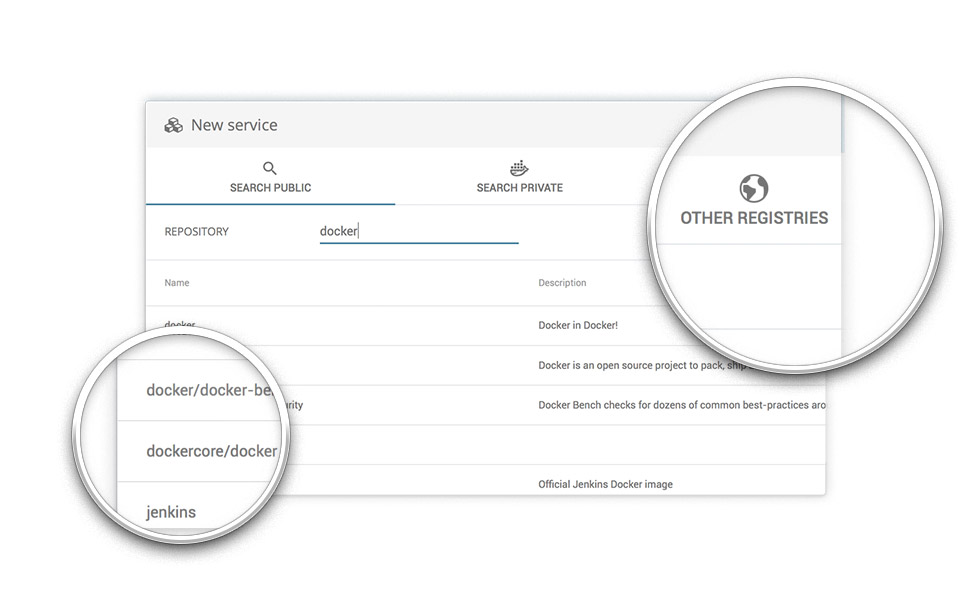
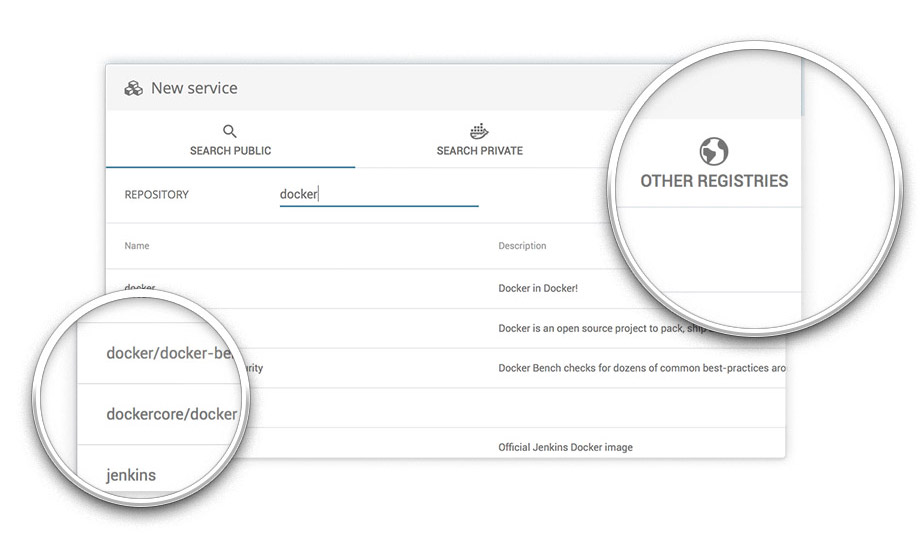
úprava velikosti screenshotu a loga

diff --git a/css/swarmpit.min.css b/css/swarmpit.min.css
@@ -2,4 +2,4 @@
  * Start Bootstrap - Swarmpit v0.1 ()
  * Copyright 2013-2017 Bootstrap
  * Licensed under MIT ()
- */.heading-font{font-family:Lato,Helvetica,Arial,sans-serif;font-size:24px;font-weight:300;letter-spacing:0}.body-font{font-family:Lato,Helvetica,Arial,sans-serif}.alt-font{font-family:Lato,Helvetica,Arial,sans-serif;text-transform:uppercase;letter-spacing:2px}.content-section-a{padding:50px 0;background-color:#fff;border-top:1px solid #e7e7e7}.content-section-b{padding:50px 0;border-top:1px solid #e7e7e7}.install{display:inline;padding:12px;background-color:#5e469c;color:#fff;font-size:1em;font-family:monaco;border-radius:3px}.code{color:#76ab0b}.subscribe{background-color:#002347;color:#fff}.email-wrapper .form-control{display:inline;height:48px;margin-right:10px;width:60%}.title{font-size:50px}.blink{animation:blink-animation 1s steps(5,start) infinite;-webkit-animation:blink-animation 1s steps(5,start) infinite}@keyframes blink-animation{to{visibility:hidden}}@-webkit-keyframes blink-animation{to{visibility:hidden}}#nopadding{padding:0 0}section.nopadding .section-heading{margin-bottom:100px}section.nopadding .section-heading h2{margin-top:0}section.nopadding .section-heading p{margin-bottom:0}section.nopadding .device-container,section.nopadding .feature-item{max-width:300px;margin:0 auto}section.nopadding .device-container{margin-bottom:100px}@media (min-width:992px){section.nopadding .device-container{margin-bottom:0}}section.nopadding .feature-item{text-align:center;margin-top:50px}section.nopadding .feature-item h3{font-size:30px}section.nopadding .feature-item i{font-size:80px;background:-webkit-linear-gradient(to left,#5e469c,#0074d9);background:linear-gradient(to left,#5e469c,#0074d9);-webkit-background-clip:text;-webkit-text-fill-color:transparent}@media (min-width:992px){section.nopadding .device-container,section.nopadding .feature-item{max-width:none}}.padd{margin:30px 0;padding-bottom:10px;background:#fff;box-shadow:0 2px 3px rgba(0,0,0,.07);color:#333;padding-left:10px;padding-right:10px}.team .avatar{position:relative;z-index:2;margin-top:-60px;border-radius:50%}.titleteam{padding-bottom:30px}body,html{height:100%;width:100%}body{font-family:Lato,Helvetica,Arial,sans-serif}a{-webkit-transition:all .35s;-moz-transition:all .35s;transition:all .35s;color:#c14499}a:focus,a:hover{color:#9e347c}hr{max-width:100px;margin:25px auto 0;border-width:0;border-color:rgba(0,65,132,.1)}.line{max-width:100px;margin:25px auto 0;border-width:1px;border-color:rgba(0,65,132,.1)}hr.light{border-color:#fff}h1,h2,h3,h4,h5,h6{font-family:Lato,Helvetica,Arial,sans-serif;font-size:24px;font-weight:300;letter-spacing:0}p{font-size:18px;line-height:1.5;margin-top:8px}.navbar-default{background-color:#fff;border-color:rgba(0,65,132,.05);-webkit-transition:all .35s;-moz-transition:all .35s;transition:all .35s;font-family:Lato,Helvetica,Arial,sans-serif;font-size:24px;font-weight:300;letter-spacing:0}.navbar-default .navbar-header .navbar-brand{font-family:Lato,Helvetica,Arial,sans-serif;font-size:24px;font-weight:300;letter-spacing:0;color:#c14499}.navbar-default .navbar-header .navbar-brand:focus,.navbar-default .navbar-header .navbar-brand:hover{color:#9e347c}.navbar-default .navbar-header .navbar-toggle{font-size:14px;color:#004184;padding:8px 10px}.navbar-default .nav>li>a{font-family:Lato,Helvetica,Arial,sans-serif;text-transform:uppercase;letter-spacing:2px;font-size:14px;font-weight:700}.navbar-default .nav>li>a,.navbar-default .nav>li>a:focus{color:#004184}.navbar-default .nav>li>a:focus:hover,.navbar-default .nav>li>a:hover{color:#c14499}.navbar-default .nav>li.active>a,.navbar-default .nav>li.active>a:focus{color:#c14499!important;background-color:transparent}.navbar-default .nav>li.active>a:focus:hover,.navbar-default .nav>li.active>a:hover{background-color:transparent}@media (min-width:768px){.navbar-default{background-color:#fff;border-color:transparent}.navbar-default .navbar-header .navbar-brand{color:rgba(255,255,255,.7)}.navbar-default .navbar-header .navbar-brand:focus,.navbar-default .navbar-header .navbar-brand:hover{color:#fff}.navbar-default .nav>li>a,.navbar-default .nav>li>a:focus{color:#5e469c}.navbar-default .nav>li>a:focus:hover,.navbar-default .nav>li>a:hover{color:#fff;background-color:#c14499}.navbar-default.affix{background-color:#fff;border-color:rgba(0,65,132,.1)}.navbar-default.affix .navbar-header .navbar-brand{color:#004184}.navbar-default.affix .navbar-header .navbar-brand:focus,.navbar-default.affix .navbar-header .navbar-brand:hover{color:#c14499}.navbar-default.affix .nav>li>a,.navbar-default.affix .nav>li>a:focus{color:#004184}.navbar-default.affix .nav>li>a:focus:hover,.navbar-default.affix .nav>li>a:hover{color:#fff}}header{position:relative;width:100%;min-height:auto;overflow-y:hidden;-webkit-background-size:cover;-moz-background-size:cover;background-size:cover;-o-background-size:cover;background-position:center no-repeat fixed;background-image:url(../img/bg-main.jpg),#5e469c;background-image:url(../img/bg-main.jpg),-webkit-linear-gradient(to left,#5e469c,#0074d9);background-image:url(../img/bg-main.jpg),linear-gradient(to left,#5e469c,#0074d9);color:#fff}header .header-content{text-align:center;padding:150px 0 50px;position:relative}header .header-content .header-content-inner{position:relative;max-width:500px;margin:0 auto}header .header-content .header-content-inner h1{margin-top:0;margin-bottom:0;font-size:30px}header .header-content .header-content-inner .list-badges{margin-bottom:25px}header .header-content .header-content-inner .list-badges img{height:50px;margin-bottom:25px}header .device-container{max-width:300px;margin:0 auto 100px}header .device-container .screen img{border-radius:0}@media (min-width:768px){header{min-height:100%}header .header-content{text-align:left;padding:0;height:100vh}header .header-content .header-content-inner{max-width:none;margin:0;position:absolute;top:50%;transform:translateY(-50%)}header .header-content .header-content-inner h1{font-size:25px}header .device-container{max-width:none;max-height:calc(0vh);margin:120px auto 0}}@media (min-width:992px){header .header-content .header-content-inner h1{font-size:50px}}section{padding:100px 0}section h2{font-size:50px}section.download{padding:150px 0;position:relative}section.download h2{margin-top:0;font-size:50px}section.download .badges .badge-link{display:block;margin-bottom:25px}section.download .badges .badge-link:last-child{margin-bottom:0}section.download .badges .badge-link img{height:60px}@media (min-width:768px){section.download .badges .badge-link{display:inline-block;margin-bottom:0}}@media (min-width:768px){section.download h2{font-size:70px}}section.tutorial{text-align:center}section.tutorial h2{margin-top:0;margin-bottom:25px}section.tutorial h2 i{color:#dd4b39}footer{background-color:#002347;padding:25px 0;color:rgba(255,255,255,.3);text-align:center}footer p{font-size:12px;margin:0}footer ul{margin-bottom:0}footer ul li a{font-size:12px;color:rgba(255,255,255,.3)}footer ul li a.active,footer ul li a:active,footer ul li a:focus,footer ul li a:hover{text-decoration:none}.bg-primary{-webkit-background-size:cover;-moz-background-size:cover;background-size:cover;-o-background-size:cover;background-position:center no-repeat fixed;background-image:url(../img/bg2.jpg),#c14499;background-image:url(../img/bg2.jpg),-webkit-linear-gradient(#c14499,#b13b8b);background-image:url(../img/bg2.jpg),linear-gradient(#c14499,#b13b8b)}.text-primary{color:#c14499}.no-gutter>[class*=col-]{padding-right:0;padding-left:0}.btn-outline{color:#fff;border-color:#fff;border:1px solid}.btn-outline.active,.btn-outline:active,.btn-outline:focus,.btn-outline:hover{color:#fff;background-color:#c14499;border-color:#c14499}.btn{font-family:Lato,Helvetica,Arial,sans-serif;text-transform:uppercase;letter-spacing:2px}.btn-xl{padding:15px 45px;font-size:11px}::-moz-selection{color:#fff;text-shadow:none;background:#004184}::selection{color:#fff;text-shadow:none;background:#004184}img::selection{color:#fff;background:0 0}img::-moz-selection{color:#fff;background:0 0}body{webkit-tap-highlight-color:#004184}
+ */.heading-font{font-family:Lato,Helvetica,Arial,sans-serif;font-size:24px;font-weight:300;letter-spacing:0}.body-font{font-family:Lato,Helvetica,Arial,sans-serif}.alt-font{font-family:Lato,Helvetica,Arial,sans-serif;text-transform:uppercase;letter-spacing:2px}.content-section-a{padding:50px 0;background-color:#fff;border-top:1px solid #e7e7e7}.content-section-b{padding:50px 0;border-top:1px solid #e7e7e7}.install{padding:12px;background-color:#5e469c;color:#fff;font-size:1em;font-family:monaco;font-weight:700;border-radius:6px}.code{color:#76ab0b}.subscribe{background-color:#002347;color:#fff}.email-wrapper .form-control{display:inline;height:48px;margin-right:10px;width:60%}.title{font-size:50px}#nopadding{padding:0 0}section.nopadding .section-heading{margin-bottom:100px}section.nopadding .section-heading h2{margin-top:0}section.nopadding .section-heading p{margin-bottom:0}section.nopadding .device-container,section.nopadding .feature-item{max-width:300px;margin:0 auto}section.nopadding .device-container{margin-bottom:100px}@media (min-width:992px){section.nopadding .device-container{margin-bottom:0}}section.nopadding .feature-item{text-align:center;margin-top:50px}section.nopadding .feature-item h3{font-size:30px}section.nopadding .feature-item i{font-size:80px;background:-webkit-linear-gradient(to left,#5e469c,#0074d9);background:linear-gradient(to left,#5e469c,#0074d9);-webkit-background-clip:text;-webkit-text-fill-color:transparent}@media (min-width:992px){section.nopadding .device-container,section.nopadding .feature-item{max-width:none}}.padd{margin:30px 0;padding-bottom:10px;background:#fff;box-shadow:0 2px 3px rgba(0,0,0,.07);color:#333;padding-left:10px;padding-right:10px}.team .avatar{position:relative;z-index:2;margin-top:-60px;border-radius:50%}.titleteam{padding-bottom:30px}body,html{height:100%;width:100%}body{font-family:Lato,Helvetica,Arial,sans-serif}a{-webkit-transition:all .35s;-moz-transition:all .35s;transition:all .35s;color:#c14499}a:focus,a:hover{color:#9e347c}hr{max-width:100px;margin:25px auto 0;border-width:0;border-color:rgba(0,65,132,.1)}.line{max-width:100px;margin:25px auto 0;border-width:1px;border-color:rgba(0,65,132,.1)}hr.light{border-color:#fff}h1,h2,h3,h4,h5,h6{font-family:Lato,Helvetica,Arial,sans-serif;font-size:24px;font-weight:300;letter-spacing:0}p{font-size:18px;line-height:1.5;margin-top:8px}.navbar-default{background-color:#fff;border-color:rgba(0,65,132,.05);-webkit-transition:all .35s;-moz-transition:all .35s;transition:all .35s;font-family:Lato,Helvetica,Arial,sans-serif;font-size:24px;font-weight:300;letter-spacing:0}.navbar-default .navbar-header .navbar-brand{font-family:Lato,Helvetica,Arial,sans-serif;font-size:24px;font-weight:300;letter-spacing:0;color:#c14499}.navbar-default .navbar-header .navbar-brand:focus,.navbar-default .navbar-header .navbar-brand:hover{color:#9e347c}.navbar-default .navbar-header .navbar-toggle{font-size:14px;color:#004184;padding:8px 10px}.navbar-default .nav>li>a{font-family:Lato,Helvetica,Arial,sans-serif;text-transform:uppercase;letter-spacing:2px;font-size:14px;font-weight:700}.navbar-default .nav>li>a,.navbar-default .nav>li>a:focus{color:#004184}.navbar-default .nav>li>a:focus:hover,.navbar-default .nav>li>a:hover{color:#c14499}.navbar-default .nav>li.active>a,.navbar-default .nav>li.active>a:focus{color:#c14499!important;background-color:transparent}.navbar-default .nav>li.active>a:focus:hover,.navbar-default .nav>li.active>a:hover{background-color:transparent}@media (min-width:768px){.navbar-default{background-color:#fff;border-color:transparent}.navbar-default .navbar-header .navbar-brand{color:rgba(255,255,255,.7)}.navbar-default .navbar-header .navbar-brand:focus,.navbar-default .navbar-header .navbar-brand:hover{color:#fff}.navbar-default .nav>li>a,.navbar-default .nav>li>a:focus{color:#5e469c}.navbar-default .nav>li>a:focus:hover,.navbar-default .nav>li>a:hover{color:#fff;background-color:#c14499}.navbar-default.affix{background-color:#fff;border-color:rgba(0,65,132,.1)}.navbar-default.affix .navbar-header .navbar-brand{color:#004184}.navbar-default.affix .navbar-header .navbar-brand:focus,.navbar-default.affix .navbar-header .navbar-brand:hover{color:#c14499}.navbar-default.affix .nav>li>a,.navbar-default.affix .nav>li>a:focus{color:#004184}.navbar-default.affix .nav>li>a:focus:hover,.navbar-default.affix .nav>li>a:hover{color:#fff}}header{position:relative;width:100%;min-height:auto;overflow-y:hidden;-webkit-background-size:cover;-moz-background-size:cover;background-size:cover;-o-background-size:cover;background-position:center no-repeat fixed;background-image:url(../img/bg-main.jpg),#5e469c;background-image:url(../img/bg-main.jpg),-webkit-linear-gradient(to left,#5e469c,#0074d9);background-image:url(../img/bg-main.jpg),linear-gradient(to left,#5e469c,#0074d9);color:#fff}header .header-content{text-align:center;padding:150px 0 50px;position:relative}header .header-content .header-content-inner{position:relative;max-width:500px;margin:0 auto}header .header-content .header-content-inner h1{margin-top:0;margin-bottom:0;font-size:30px}header .header-content .header-content-inner .list-badges{margin-bottom:25px}header .header-content .header-content-inner .list-badges img{height:50px;margin-bottom:25px}header .device-container{max-width:300px;margin:0 auto 100px}header .device-container .screen img{border-radius:0}@media (min-width:768px){header{min-height:100%}header .header-content{text-align:left;padding:0;height:100vh}header .header-content .header-content-inner{max-width:none;margin:0;position:absolute;top:50%;transform:translateY(-50%)}header .header-content .header-content-inner h1{font-size:25px}header .device-container{max-width:none;max-height:calc(0vh);margin:120px auto 0}}@media (min-width:992px){header .header-content .header-content-inner h1{font-size:50px}}section{padding:100px 0}section h2{font-size:39px}section.download{padding:150px 0;position:relative}section.download h2{margin-top:0;font-size:50px}section.download .badges .badge-link{display:block;margin-bottom:25px}section.download .badges .badge-link:last-child{margin-bottom:0}section.download .badges .badge-link img{height:60px}@media (min-width:768px){section.download .badges .badge-link{display:inline-block;margin-bottom:0}}@media (min-width:768px){section.download h2{font-size:70px}}section.tutorial{text-align:center}section.tutorial h2{margin-top:0;margin-bottom:25px}section.tutorial h2 i{color:#dd4b39}footer{background-color:#002347;padding:25px 0;color:rgba(255,255,255,.3);text-align:center}footer p{font-size:12px;margin:0}footer ul{margin-bottom:0}footer ul li a{font-size:12px;color:rgba(255,255,255,.3)}footer ul li a.active,footer ul li a:active,footer ul li a:focus,footer ul li a:hover{text-decoration:none}.bg-primary{-webkit-background-size:cover;-moz-background-size:cover;background-size:cover;-o-background-size:cover;background-position:center no-repeat fixed;background-image:url(../img/bg2.jpg),#c14499;background-image:url(../img/bg2.jpg),-webkit-linear-gradient(#c14499,#b13b8b);background-image:url(../img/bg2.jpg),linear-gradient(#c14499,#b13b8b)}.text-primary{color:#c14499}.no-gutter>[class*=col-]{padding-right:0;padding-left:0}.btn-outline{color:#fff;border-color:#fff;border:1px solid}.btn-outline.active,.btn-outline:active,.btn-outline:focus,.btn-outline:hover{color:#fff;background-color:#c14499;border-color:#c14499}.btn{font-family:Lato,Helvetica,Arial,sans-serif;text-transform:uppercase;letter-spacing:2px}.btn-xl{padding:15px 45px;font-size:11px}::-moz-selection{color:#fff;text-shadow:none;background:#004184}::selection{color:#fff;text-shadow:none;background:#004184}img::selection{color:#fff;background:0 0}img::-moz-selection{color:#fff;background:0 0}body{webkit-tap-highlight-color:#004184}

diff --git a/css/swarmpit.css b/css/swarmpit.css
@@ -27,13 +27,14 @@
   border-top: 1px solid #e7e7e7;
 }
 .install {
-  display: inline;
+  /*display:inline;*/
   padding: 12px;
   background-color: #5e469c;
   color: #fff;
   font-size: 1em;
   font-family: monaco;
-  border-radius: 3px;
+  font-weight: bold;
+  border-radius: 6px;
 }
 .code {
   color: #76ab0b;
@@ -50,20 +51,6 @@
 }
 .title {
   font-size: 50px;
-}
-.blink {
-  animation: blink-animation 1s steps(5, start) infinite;
-  -webkit-animation: blink-animation 1s steps(5, start) infinite;
-}
-@keyframes blink-animation {
-  to {
-    visibility: hidden;
-  }
-}
-@-webkit-keyframes blink-animation {
-  to {
-    visibility: hidden;
-  }
 }
 #nopadding {
   padding: 0px 0;
@@ -350,7 +337,7 @@ section {
   padding: 100px 0;
 }
 section h2 {
-  font-size: 50px;
+  font-size: 39px;
 }
 section.download {
   padding: 150px 0;

diff --git a/less/design.less b/less/design.less
@@ -9,13 +9,14 @@
     border-top: 1px solid #e7e7e7;
 }
 .install {
-    display:inline;
+    /*display:inline;*/
     padding: 12px;
     background-color: #5e469c;
     color: #fff;
     font-size: 1em;
     font-family: monaco; 
-    border-radius: 3px;
+    font-weight: bold;
+    border-radius: 6px;
 }
 .code {
     color: #76ab0b;
@@ -32,21 +33,6 @@
 }
 .title {
     font-size: 50px;
-}
-
-.blink {
-  animation: blink-animation 1s steps(5, start) infinite;
-  -webkit-animation: blink-animation 1s steps(5, start) infinite;
-}
-@keyframes blink-animation {
-  to {
-    visibility: hidden;
-  }
-}
-@-webkit-keyframes blink-animation {
-  to {
-    visibility: hidden;
-  }
 }
 
 #nopadding {

diff --git a/index.html b/index.html
@@ -217,7 +217,8 @@
                 <div class="col-md-8 col-md-offset-2">
                     <h2 class="section-heading">How to install</h2>
                     <hr>
-                    <div class="install"><span class="code"> $ </span> https://github.com/nohaapav/swarmpit.git<span class="blink">_ </span> </div>
+                    <div class="install"><span class="code"> $ </span> https://github.com/nohaapav/swarmpit.git</div>
+                    <div class="install"><span class="code"> $ </span> https://github.com/nohaapav/swarmpit.git</div>
                 </div>
             </div>
         </div>

diff --git a/less/swarmpit.less b/less/swarmpit.less
@@ -220,7 +220,7 @@ header {
 section {
     padding: 100px 0;
     h2 {
-        font-size: 50px;
+        font-size: 39px;
     }
 }
 
